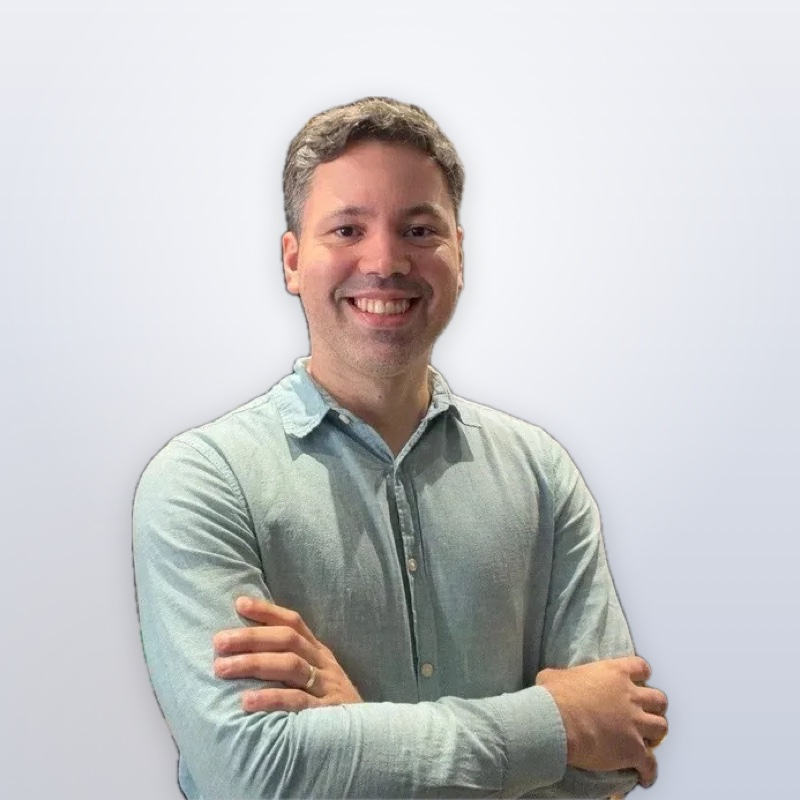
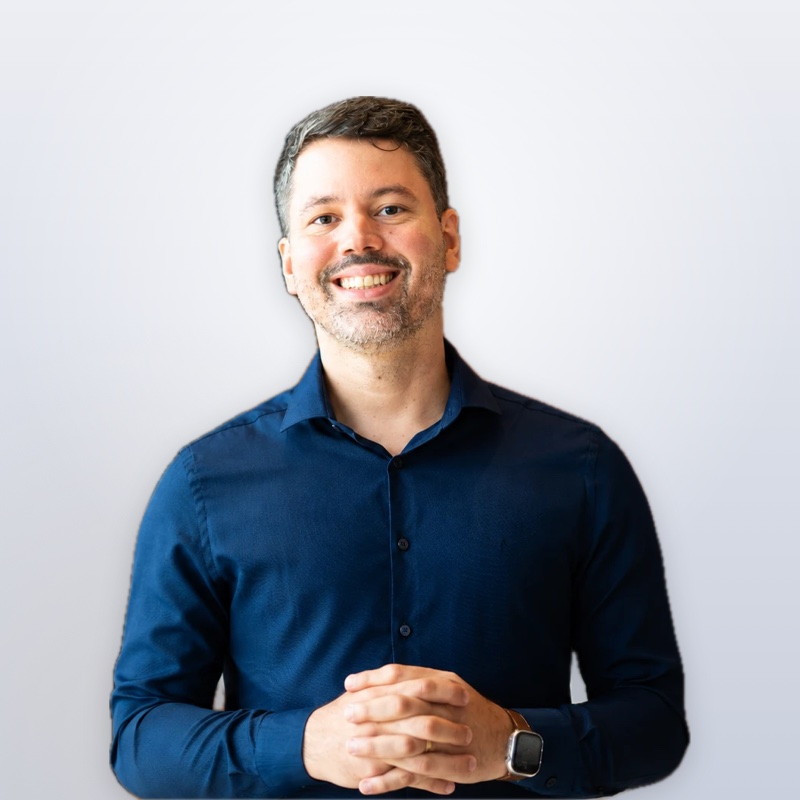
Troca a foto de Gileard
Foto nova no mesmo fundo de estúdio claro das demais; o recorte considera só a
pessoa do centro, sem quem aparece desfocado ao fundo.

diff --git a/index.html b/index.html
@@ -406,7 +406,7 @@
       <article class="team-card">
         <p class="team-fase">Antes do código</p>
         <div class="team-photo">
-          <img src="img/equipe/gileard.jpg?v=4" width="800" height="800" alt="Gileard Teixeira" loading="lazy">
+          <img src="img/equipe/gileard.jpg?v=5" width="800" height="800" alt="Gileard Teixeira" loading="lazy">
         </div>
         <div class="team-caption">
           <span class="role-tag">Sócio</span>
